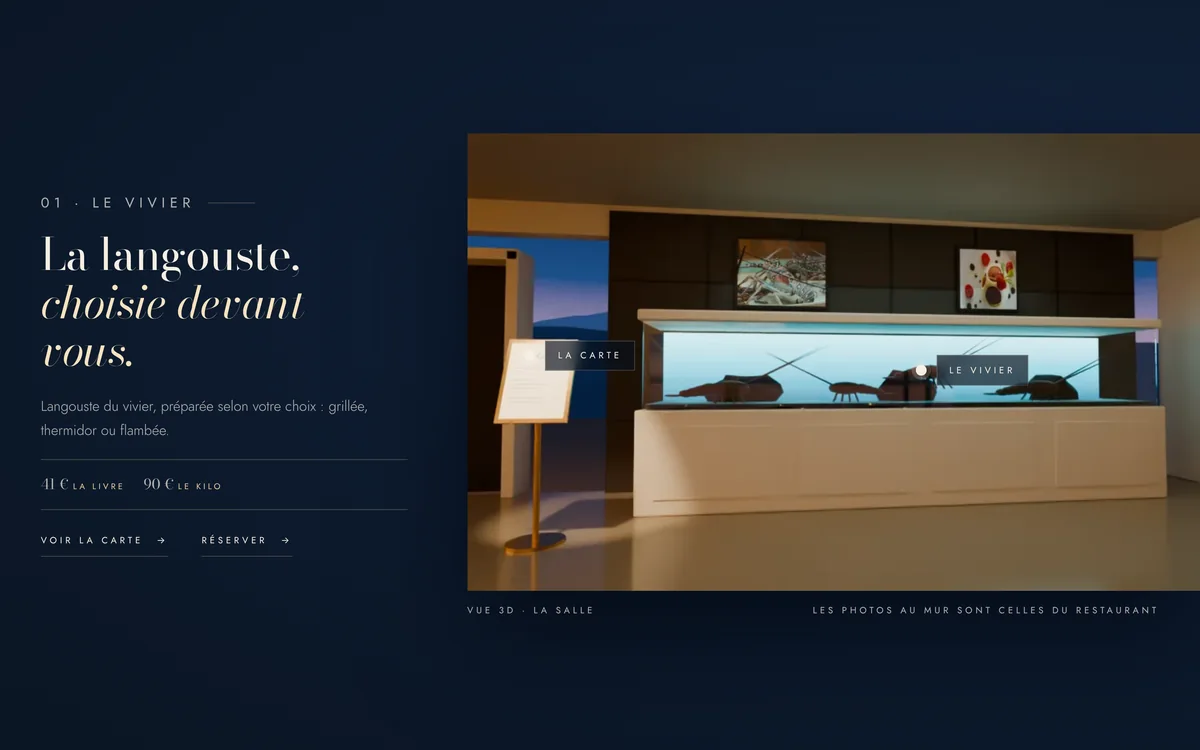
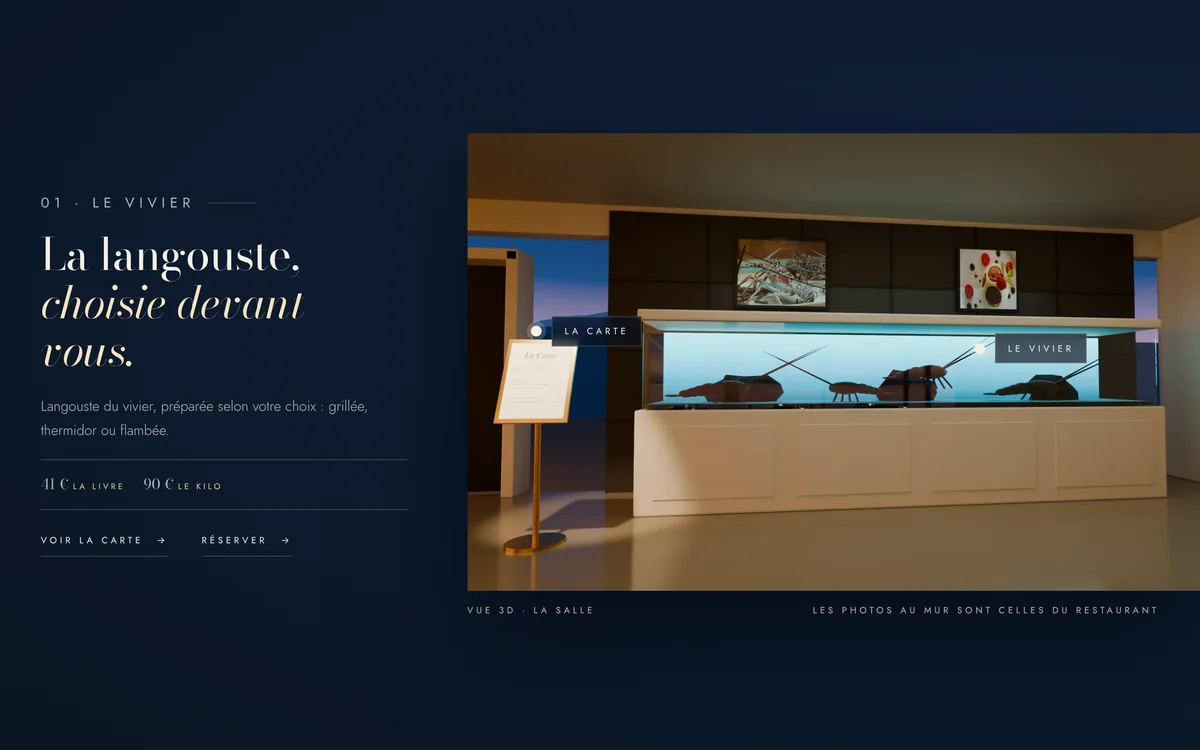
Ocean 82 : pistes de style — rendus définitifs, enseigne 3D corrigée, mises en page affinées
Claude-Session: https://claude.ai/code/session_01AHC7SyqV6WM7kVvPMDQmV4

diff --git a/ocean82/pistes/a-heure-bleue.html b/ocean82/pistes/a-heure-bleue.html
@@ -50,10 +50,10 @@ a { color: inherit; text-decoration: none; }
 .btn-full:hover { background: var(--sand); border-color: var(--sand); }
 .btn-sm { min-height: 2.8rem; padding: 0 1.5rem; }
 
-.pitch { align-self: start; justify-self: center; text-align: center; padding: clamp(1.2rem, 5.2vh, 3.6rem) var(--pad) 0; max-width: 60rem; }
+.pitch { align-self: start; justify-self: center; text-align: center; padding: clamp(1rem, 3.2vh, 2.4rem) var(--pad) 0; max-width: 60rem; }
 .pitch .caps { color: var(--sand); }
 h1, h2 { font-family: var(--serif); font-weight: 400; margin: 0; letter-spacing: -.012em; }
-h1 { font-size: clamp(2.5rem, 4.7vw, 4.5rem); line-height: 1.08; margin: 1.3rem 0 2.2rem; text-shadow: 0 2px 40px rgba(6, 12, 24, .5); }
+h1 { font-size: clamp(2.5rem, 4.7vw, 4.5rem); line-height: 1.08; margin: 1.2rem 0 1.9rem; text-shadow: 0 2px 40px rgba(6, 12, 24, .5); }
 h1 em, h2 em { font-style: italic; color: #f8e3bf; }
 .cta { display: flex; flex-wrap: wrap; justify-content: center; gap: .9rem; }
 
@@ -65,12 +65,12 @@ h1 em, h2 em { font-style: italic; color: #f8e3bf; }
 @keyframes drop { 0% { transform: scaleY(0); } 55% { transform: scaleY(1); } 100% { transform: scaleY(1); opacity: 0; } }
 
 /* ---------- on entre : le vivier et la carte */
-.room { display: grid; grid-template-columns: minmax(0, 4fr) minmax(0, 8fr); align-items: center; gap: clamp(2rem, 5vw, 5.5rem); min-height: 100vh; padding: clamp(4rem, 9vh, 7rem) 0 clamp(4rem, 9vh, 7rem) var(--pad);
+.room { display: grid; grid-template-columns: minmax(0, 4.7fr) minmax(0, 7.3fr); align-items: center; gap: clamp(2rem, 5vw, 5.5rem); min-height: 100vh; padding: clamp(4rem, 9vh, 7rem) 0 clamp(4rem, 9vh, 7rem) var(--pad);
   background: radial-gradient(120% 90% at 85% 40%, #14294a 0%, var(--deep) 45%, var(--night) 100%); }
 .room-txt { max-width: 30rem; justify-self: end; }
 .num { display: flex; align-items: center; gap: 1rem; color: var(--sand); margin: 0 0 1.6rem; }
 .num::after { content: ""; flex: 0 0 3.5rem; height: 1px; background: var(--line); }
-h2 { font-size: clamp(2.3rem, 3.7vw, 3.6rem); line-height: 1.08; margin: 0 0 1.5rem; }
+h2 { font-size: clamp(2.2rem, 3.3vw, 3.15rem); line-height: 1.1; margin: 0 0 1.5rem; }
 .room p { margin: 0 0 1.3rem; color: var(--mute); font-size: 1.06rem; }
 .price { display: flex; align-items: baseline; gap: 1.4rem; margin: 2rem 0 2.4rem; padding: 1.3rem 0; border-block: 1px solid var(--line); font: 400 1.9rem/1 var(--serif); }
 .price small { font: 400 .62rem/1 var(--sans); letter-spacing: .3em; text-transform: uppercase; color: var(--sand); margin-left: .5em; }
@@ -90,18 +90,21 @@ h2 { font-size: clamp(2.3rem, 3.7vw, 3.6rem); line-height: 1.08; margin: 0 0 1.5
   .nav, .lang { display: none; }
   .brand b, .brand i { font-size: 1.2rem; }
   .hero picture img { object-position: 50% 50%; }
-  .pitch { padding-top: 7vh; }
+  /* sur téléphone : le titre dans le ciel, les boutons en bas, sous le pouce, au-dessus du reflet */
+  .pitch { display: flex; flex-direction: column; align-self: stretch; padding-top: 5vh; padding-bottom: 1.5rem; }
+  .cta { margin-top: auto; }
   .pitch .caps { font-size: .6rem; letter-spacing: .26em; }
   h1 { font-size: clamp(2.3rem, 10.4vw, 3rem); margin: 1.1rem 0 1.8rem; }
-  .cta { flex-direction: column; align-items: stretch; padding: 0 1.4rem; }
+  .cta { flex-direction: column; align-items: stretch; padding: 0 .4rem; }
   .strip { grid-template-columns: 1fr; justify-items: center; gap: 1rem; text-align: center; padding-bottom: 1.3rem; }
   .strip span:last-child { display: none; }
-  .enter { order: -1; }
+  .enter { display: none; }
   .room { grid-template-columns: minmax(0, 1fr); min-height: 0; gap: 2.6rem; padding: 0 var(--pad) 3.5rem; }
   .room-txt { justify-self: start; }
   .view { order: -1; margin-inline: calc(-1 * var(--pad)); }
   .view figcaption { padding-inline: var(--pad); }
   .link + .link { margin: 1.2rem 0 0; display: flex; width: fit-content; }
+  .pin + .pin { left: 52% !important; }
 }
 @media (prefers-reduced-motion: reduce) { *, *::before, *::after { animation: none !important; transition: none !important; } }
 </style>

diff --git a/ocean82/pistes/b-maquette.html b/ocean82/pistes/b-maquette.html
@@ -91,8 +91,9 @@ h2 { font-size: clamp(2.6rem, 4.3vw, 4.2rem); line-height: .98; margin: 0 0 2.2r
 .dishes b { font: 400 .95rem/1 var(--sans); color: var(--sand); white-space: nowrap; }
 .carte .link { margin-top: 2.4rem; align-self: flex-start; }
 .vivier { position: relative; display: flex; flex-direction: column; justify-content: flex-end; min-height: 100vh; padding: clamp(2rem, 5vw, 4.5rem); isolation: isolate; overflow: hidden; }
-.vivier img { position: absolute; inset: 0; width: 100%; height: 100%; object-fit: cover; object-position: 62% 50%; z-index: -2; }
-.vivier::after { content: ""; position: absolute; inset: 40% 0 0 0; z-index: -1; background: linear-gradient(rgba(239, 230, 216, 0), rgba(239, 230, 216, .96) 62%); }
+.vivier img { position: absolute; inset: 0; width: 100%; height: 100%; object-fit: cover; object-position: 60% 50%; z-index: -2; }
+.vivier h2 { margin-bottom: 1.4rem; }
+.vivier::after { content: ""; position: absolute; inset: 56% 0 0 0; z-index: -1; background: linear-gradient(rgba(239, 230, 216, 0), rgba(239, 230, 216, .97) 46%); }
 .vivier p { margin: 0 0 1.4rem; max-width: 26rem; color: var(--mute); }
 .price { font: 400 1.6rem/1 var(--serif); color: var(--ink) !important; }
 .price small { font: 400 .62rem/1 var(--sans); letter-spacing: .3em; text-transform: uppercase; color: var(--sand); margin: 0 1.4em 0 .5em; }
@@ -152,7 +153,7 @@ h2 { font-size: clamp(2.6rem, 4.3vw, 4.2rem); line-height: .98; margin: 0 0 2.2r
         <a class="tag caps" href="#carte" style="--x: 52; --t: 7; --d: 45"><i><b>01</b><span>La carte</span></i></a>
         <a class="tag caps" href="#vivier" style="--x: 62.5; --t: 16; --d: 44.5"><i><b>02</b><span>Le vivier</span></i></a>
         <a class="tag caps" href="#cave" style="--x: 33.5; --t: 14; --d: 45.5"><i><b>03</b><span>La cave</span></i></a>
-        <a class="tag caps up" href="#terrasse" style="--x: 46; --t: 73; --d: 53.5"><i><b>04</b><span>La terrasse</span></i></a>
+        <a class="tag caps up" href="#terrasse" style="--x: 40; --t: 81; --d: 54"><i><b>04</b><span>La terrasse</span></i></a>
       </div>
       <figcaption class="caps">Faites tourner la maquette · touchez une étiquette pour entrer</figcaption>
     </figure>
@@ -188,7 +189,6 @@ h2 { font-size: clamp(2.6rem, 4.3vw, 4.2rem); line-height: .98; margin: 0 0 2.2r
     <img src="../assets/3d/ivoire-vivier.webp" width="1760" height="1100" alt="Le vivier à langoustes, vu dans la maquette 3D" loading="lazy">
     <p class="num caps"><b>02</b> Le vivier</p>
     <h2>La langouste, <em>choisie devant vous.</em></h2>
-    <p>Langouste du vivier, préparée selon votre choix : grillée, thermidor ou flambée.</p>
     <p class="price">41 €<small>la livre</small>90 €<small>le kilo</small></p>
   </section>
 </main>

diff --git a/ocean82/pistes/c-chocolat.html b/ocean82/pistes/c-chocolat.html
@@ -102,7 +102,8 @@ h2 em { display: block; font: italic 400 .62em/1.25 var(--serif); letter-spacing
   .house::before { display: none; }
   .house img { position: static; height: 46svh; }
   .house-in { grid-template-columns: minmax(0, 1fr); padding: 2.2rem var(--pad) 3rem; }
-  .pin { left: 46% !important; top: 30% !important; }
+  .pin { left: 55% !important; top: 33% !important; }
+  .pin span b { display: none; }
   .trio { flex-wrap: wrap; gap: 1.2rem 2rem; }
 }
 .mbrand { display: none; }
